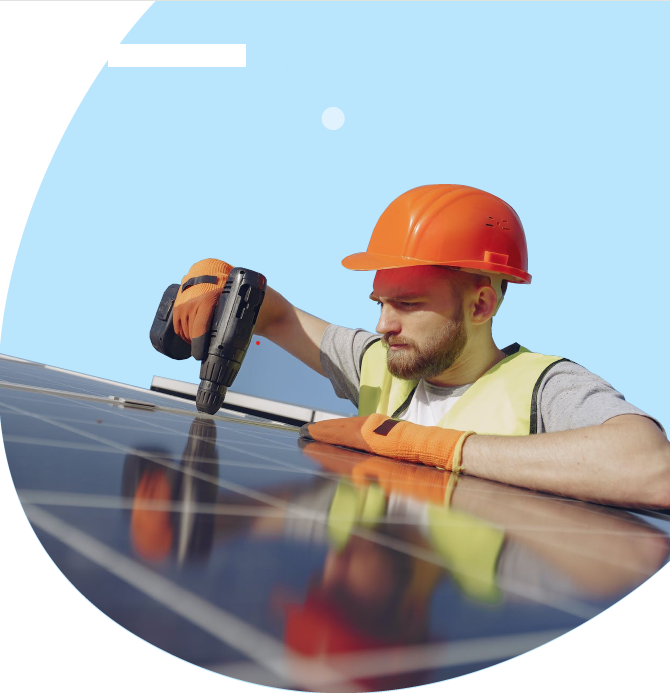
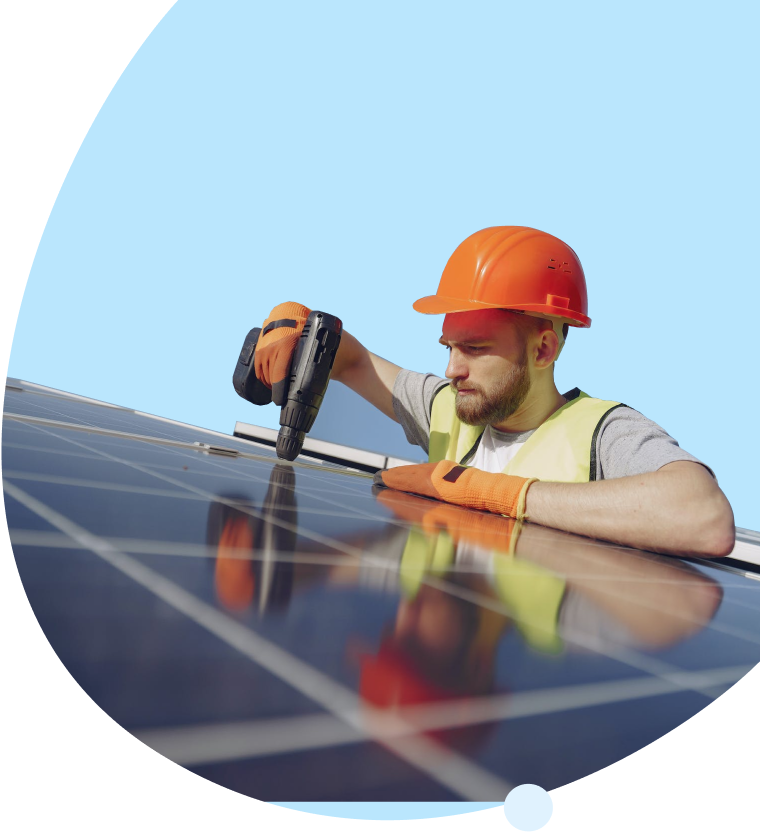
arrumando o header

diff --git a/frontEnd/src/components/Header/Hearder.jsx b/frontEnd/src/components/Header/Hearder.jsx
@@ -48,43 +48,42 @@ export default function Navbar() {
           </div>
         </div>
       </header>
-<div className="col">
-  <div className="bannerleft">
-    <div className="sectionTextcol">
-      <h1 className="sectionTextH1">Get the Sun to Power Your Home</h1>
-      <p className="sectionTextParagrafo" >Viverra viverra nibh enim et aliquam, enim. Tempor, sit mus viverra orci dui consequat turpis scelerisque.</p>
-      <Button text="Request a Quote" theme={styles.roxo} />
-    </div>
-    <div className="sectionTextcol2">
-      
-      <p className="sectionTextParagrafo2" >“Viverra viverra nibh enim et aliquam, enim. Tempor, sit mus viverra orci dui consequat turpis scelerisque faucibus.”</p>
-      <div className="user-card">
-          <div className="image">
-            {<img src={"/image/courtney.jpg"} alt="" /> ? <img src={"/image/courtney.jpg"} alt="" /> : ""}
+      <div className="col">
+        <div className="bannerleft">
+          <div className="sectionTextcol">
+            <h1 className="sectionTextH1">Get the Sun to Power Your Home</h1>
+            <p className="sectionTextParagrafo">
+              Viverra viverra nibh enim et aliquam, enim. Tempor, sit mus
+              viverra orci dui consequat turpis scelerisque.
+            </p>
+            <Button text="Request a Quote" theme={styles.roxo} />
           </div>
-          <div className="detalis">
-            <span className="nome">Rwanda Melflor</span>
+          <div className="sectionTextcol2">
+            <p className="sectionTextParagrafo2">
+              “Viverra viverra nibh enim et aliquam, enim. Tempor, sit mus
+              viverra orci dui consequat turpis scelerisque faucibus.”
+            </p>
+            <div className="user-card">
+              <div className="image">
+                {<img src={"/image/courtney.jpg"} alt="" /> ? (
+                  <img src={"/image/courtney.jpg"} alt="" />
+                ) : (
+                  ""
+                )}
+              </div>
+              <div className="detalis">
+                <span className="nome">Rwanda Melflor</span>
 
-            <span className="categoria">zerowaste.com</span>
+                <span className="categoria">zerowaste.com</span>
+              </div>
+            </div>
           </div>
         </div>
 
-
-
-    </div>
-
-
-  </div>
-
-
-<div className="bannerright">
-  <img className="bannerimg" 
-  
-  src="/image/header.png"  alt="" />
-</div>
-</div>
-
-
+        {/* <div className="bannerright">
+          <img className="bannerimg" src="/image/header.png" alt="" />
+        </div> */}
+      </div>
     </section>
   );
 }

diff --git a/frontEnd/src/components/Container/Container.css b/frontEnd/src/components/Container/Container.css
@@ -1,40 +1,74 @@
 .divcontainer {
-  background: var(--roxoClaro);
-  height: 949px;
-  /* width: 100%; */
-     background-blend-mode: multiply;
+  padding: 80px;
+  gap: 80px;
+ 
+  /* height: 1282px;  */
+     background-repeat: no-repeat;
+       object-fit: cover;
+ display: flex;
+ flex-direction: column;
+ /* align-items: center; */
+   
+ /* justify-content: center; */
+    background: url(./image/Ellipse1.png);
+    background-size: auto;
+    background-position: right top;
+    background-repeat: no-repeat;
+ object-fit: cover;
+
+background-color: var(--roxoClaro);
+}
+
+.sectionTextc {
+  gap: 24px;
   display: flex;
-  justify-content: flex-end;
-gap: 80px;
+   flex-direction: row;
+ 
 }
+.topBarText{
 
-.sectionTextc{
+ gap: 20px;
 display: flex;
-align-items: center;
 flex-direction: column;
 
-padding: 80px;
-width: 894px;
-gap: 24px;
-justify-content: center;
+}
 
+.caption{
+  color: var(--amarelo);
+  font-weight: 500;
+  font-size:var(--lg) ;
+  line-height: 22px;
 
 }
+
+
+.secundary{
+  color: var(--branco);
+ font-weight: 800;
+ font-size:var(--ls) ;
+ line-height: 62px;
+
+width: 800px;
+ }
+.screen{
+  width: 750px;
+  object-fit: cover;
+
+}
+.screenI{
+  margin: 24px  0  0 120px;
+}
+
 .eclipse{
-  background-repeat: no-repeat;
-  background-image: url(./image/Ellipse1.png); 
-   padding-top: 160px;
-   width: 480px;
-/* justify-content: center; */
-gap: 16px;
-flex-direction: column;
-align-items: center;
-   display: flex;
-
-   object-fit: cover;
-
+  display: flex;
+  flex-direction: column;
+  gap: 16px;
+  align-items: center;
+  padding-top: 60px;
 }
-.textRight{
+
+
+.eclipse .textRight{
   font-weight: 400;
   font-size: var(--xm);
   color: var(--branco);
@@ -42,10 +76,5 @@ align-items: center;
 
 }
 
-  
-.screen {
-  display: flex;
-    object-fit: cover;
-    z-index: 2;
-  }
+
   

diff --git a/frontEnd/src/components/Header/Hearder.css b/frontEnd/src/components/Header/Hearder.css
@@ -1,9 +1,32 @@
 
-header {
-  width: 100%;
+.header {
+  /* padding: 80px; */
+  gap: 50px;
 
-  border-bottom: 1px solid blue;
-  background: var(--branco);
+  /* height: 835px;  */
+
+       object-fit: cover;
+ display: flex;
+ flex-direction: column;
+ /* background-size: 694px; */
+
+ /* align-items: center; */
+   
+ /* justify-content: center; */
+    background: url(./image/header1.png);
+    background-size: auto;
+    background-position: right top;
+    background-repeat: no-repeat;
+ object-fit: cover;
+
+/* background-color: var(--roxoClaro); */
+}
+
+header {
+  /* width: 100%; */
+
+
+  /* background: var(--branco); */
 
   top: 0;
   left: 0;
@@ -62,16 +85,10 @@ header .container {
 .btn-group {
   display: flex;
   align-items: center;
-
-  width: 505px;
-  height: 120px;
+padding: 80px;
+  /* width: 505px;
+  height: 120px; */
   gap: 16px;
-  background-image: url("/image/eclipse.png");
-  background-size: 525px 120px;
-  background-repeat: no-repeat;
-  object-fit: cover;
-
-  border-radius: 60% 5% 0% 0%;
 }
 
 .fone {
@@ -96,22 +113,23 @@ header .container {
 .col {
   display: flex;
   flex-direction: row;
-  justify-content: flex-end;
+
+  /* justify-content: flex-end; */
 }
 .bannerleft {
   display: flex;
   flex-direction: column;
-  gap: 100px;
-
+  gap: 128px;
   height: 614px;
-  padding: 60px;
-  margin-bottom: 20px;
+  padding-left: 60px;
+  /* margin-bottom: 20px; */
 }
 
 .sectionTextcol{
 gap: 24px;
 display: flex;
 flex-direction: column;
+width: 550px;
 }
 .sectionTextH1{
   font-weight: 800;
@@ -131,6 +149,7 @@ flex-direction: column;
   gap: 16px;
   display: flex;
   flex-direction: column;
+  width: 570px;
   }
 .sectionTextParagrafo2{
   font-weight: 400;

diff --git a/frontEnd/src/components/Container/Container.jsx b/frontEnd/src/components/Container/Container.jsx
@@ -3,44 +3,30 @@ import Button from "../Button/Button";
 import styles from "../Button/Button.module.css";
 export default function Container() {
   return (
-    
-    <div className="divcontainer">
-      
-      {/* <div className="sectionText">ola</div>   */}
+    <section className="divcontainer">
       <div className="sectionTextc">
-       
-        {/* <div className="top">
-          <h6>Get the Sun to power your home</h6>
-          <h1>All the power that you need for your house is now available</h1>
-             </div> */}
-      <div className="screen">
-      <img src={"/image/Macbook.png"} alt="" /> 
+        <div>
+          <div className="topBarText">
+            <h6 className="caption">Get the Sun to power your home</h6>
+            <h1 className="secundary">
+              All the power that you need for your house is now available
+            </h1>
+          </div>
+
+          <div className="screenI">
+            <img className="screen" src={"/image/Macbook.png"} alt="" />
+          </div>
+        </div>
+
+        <div className="eclipse">
+          <Button
+            text="Request a Quote"
+            theme={styles.amarelo}
+            styles={{ margin: "140px" }}
+          />
+          <p className="textRight">Egestas fringilla aliquam leo</p>
+        </div>
       </div>
-  
-       </div>
-         
-       
-     
-
-  
-      <div className="eclipse">
-        
-       <Button text="Request a Quote" theme={styles.amarelo} styles={{margin:"140px"}} />
-    <p className="textRight">Egestas fringilla aliquam leo</p>
-       
-      </div>
-    
-   
-      
-      
-     
-       
-
-
-    
-     
-  
-     
-    </div>
+    </section>
   );
 }
